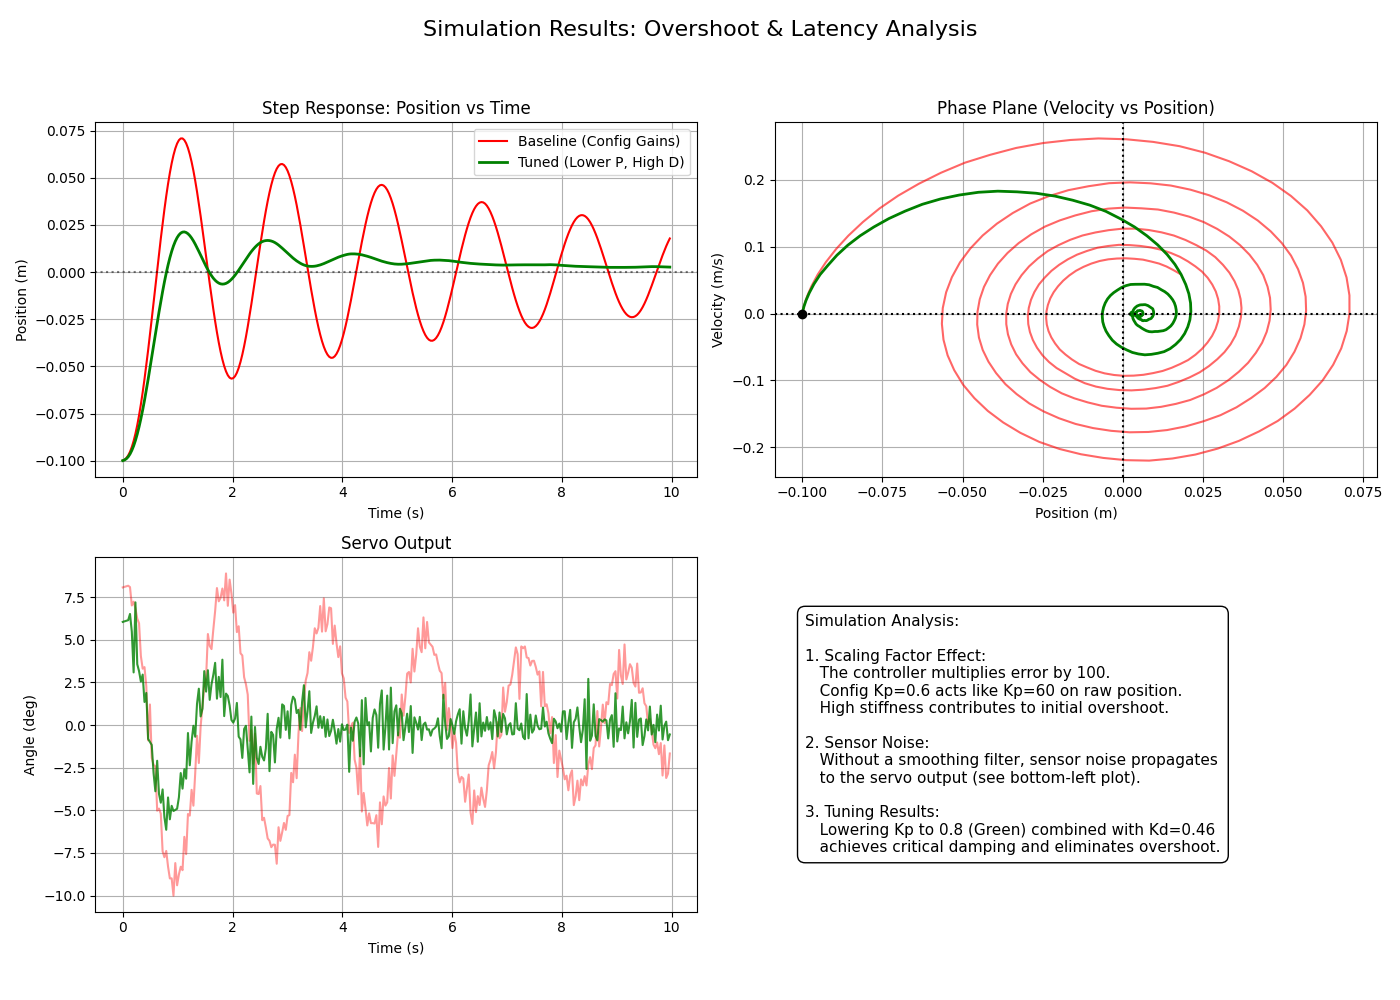
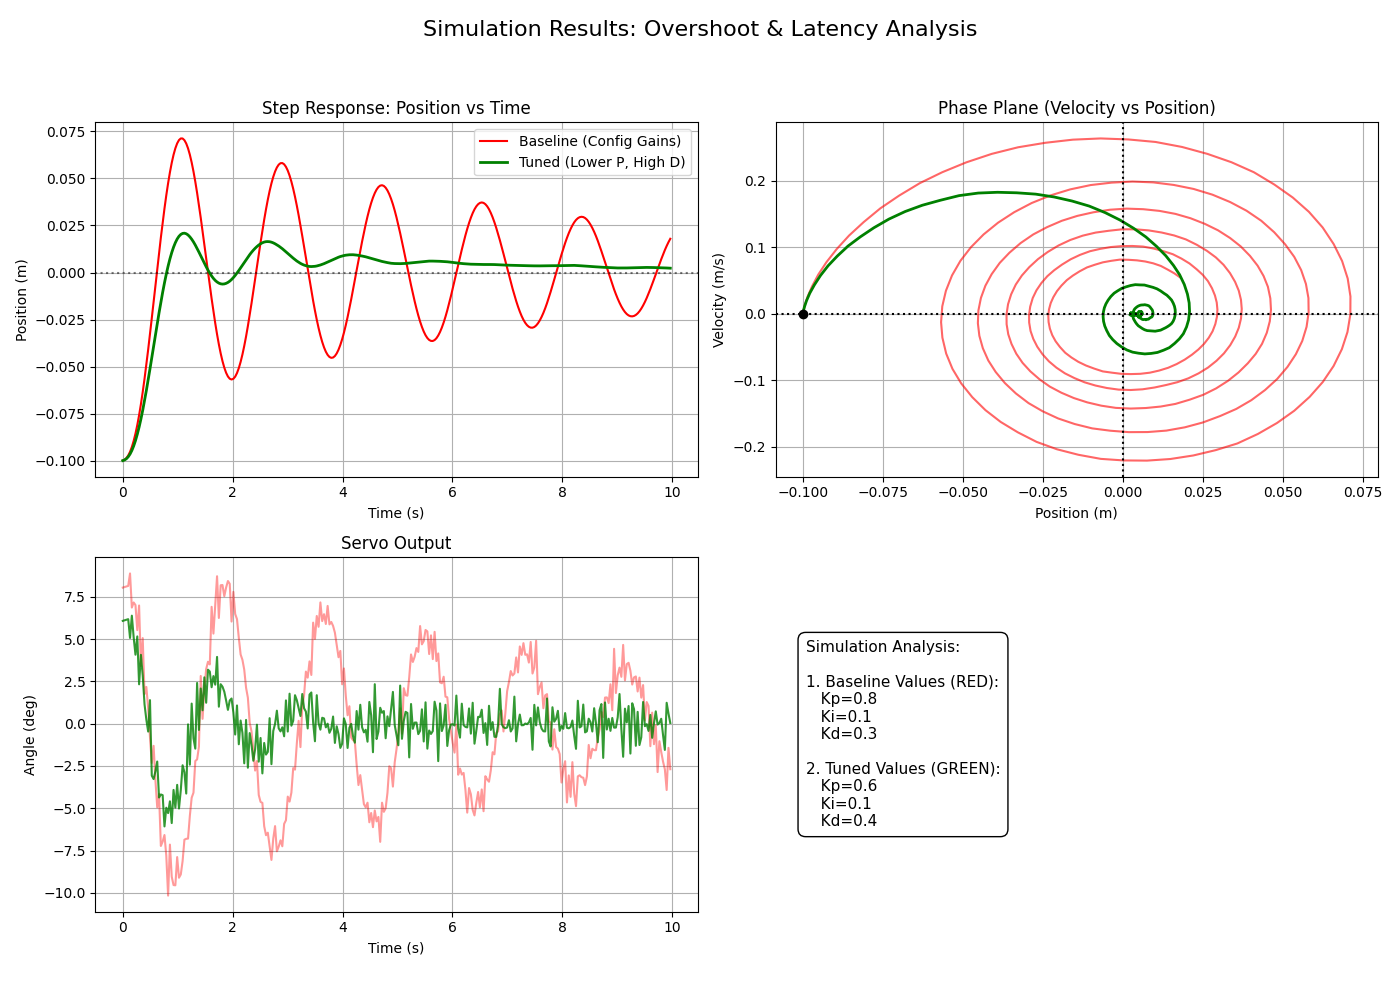
Fixed main plotting

diff --git a/overshoot_sim.py b/overshoot_sim.py
@@ -187,16 +187,14 @@ def main():
     ax_txt.axis('off')
     txt = (
         "Simulation Analysis:\n\n"
-        "1. Scaling Factor Effect:\n"
-        "   The controller multiplies error by 100.\n"
-        "   Config Kp=0.6 acts like Kp=60 on raw position.\n"
-        "   High stiffness contributes to initial overshoot.\n\n"
-        "2. Sensor Noise:\n"
-        "   Without a smoothing filter, sensor noise propagates\n"
-        "   to the servo output (see bottom-left plot).\n\n"
-        "3. Tuning Results:\n"
-        "   Lowering Kp to 0.8 (Green) combined with Kd=0.46\n"
-        "   achieves critical damping and eliminates overshoot."
+        "1. Baseline Values (RED):\n"
+        "   Kp=0.8\n"
+        "   Ki=0.1\n"
+        "   Kd=0.3\n\n"
+        "2. Tuned Values (GREEN):\n"
+        "   Kp=0.6\n"
+        "   Ki=0.1\n"
+        "   Kd=0.4"
     )
     ax_txt.text(0.05, 0.5, txt, fontsize=11, va='center',
                 bbox=dict(boxstyle="round,pad=0.5", fc="white", ec="black"))
